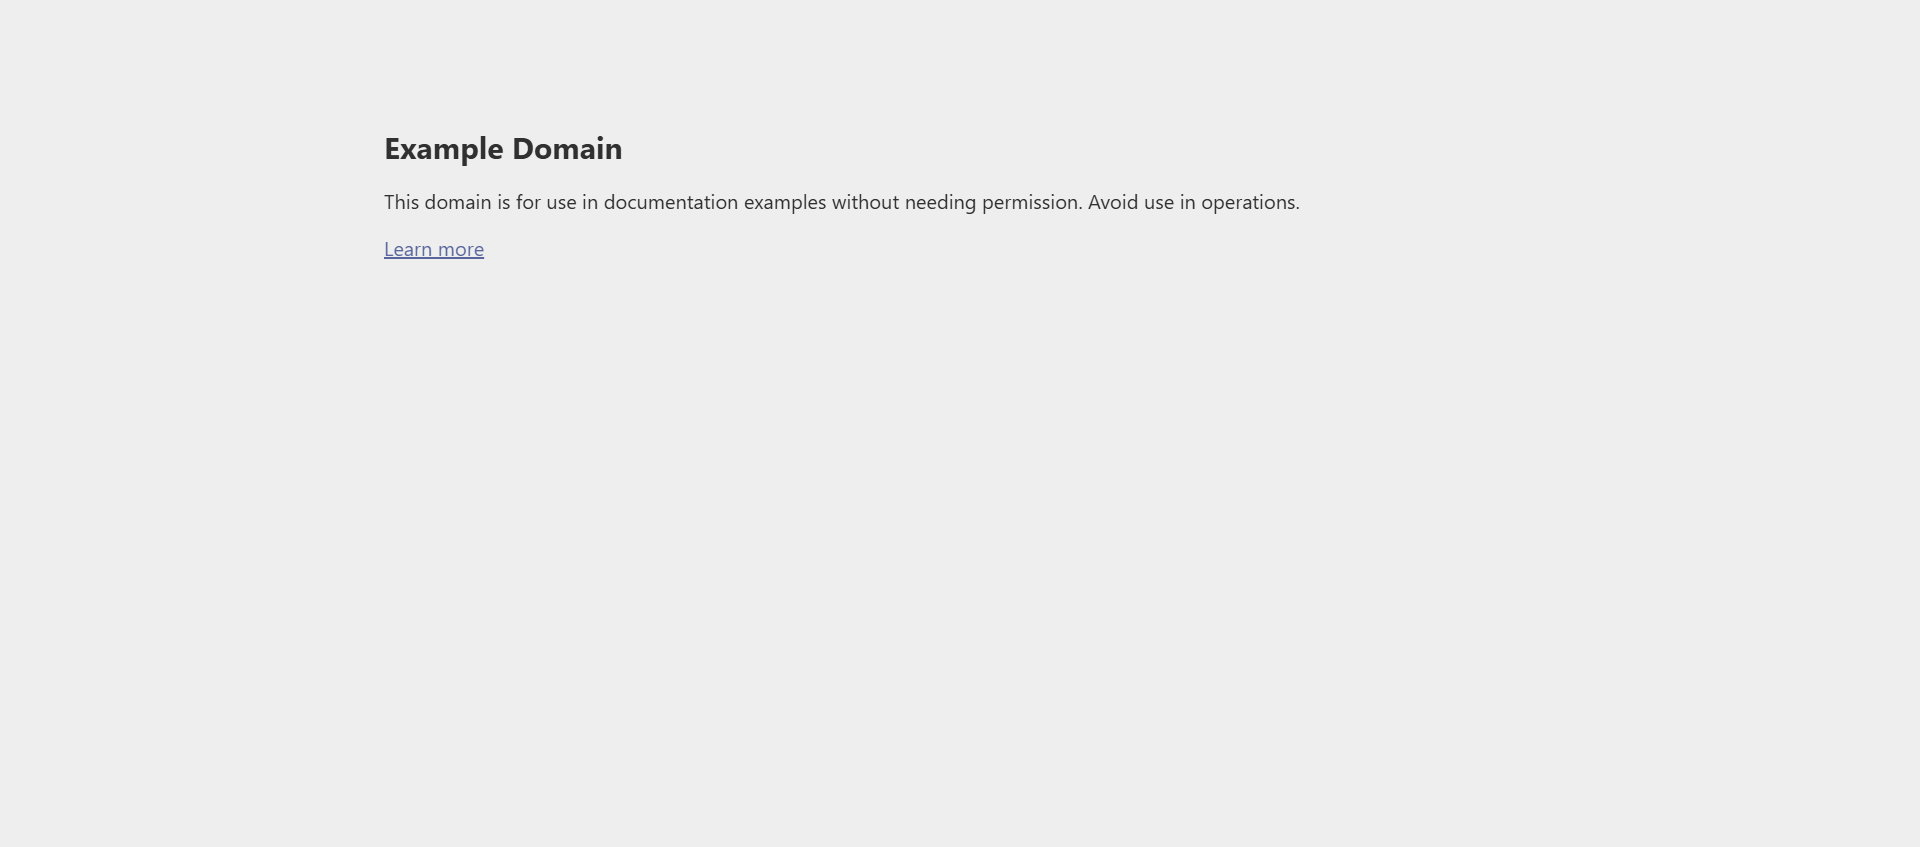
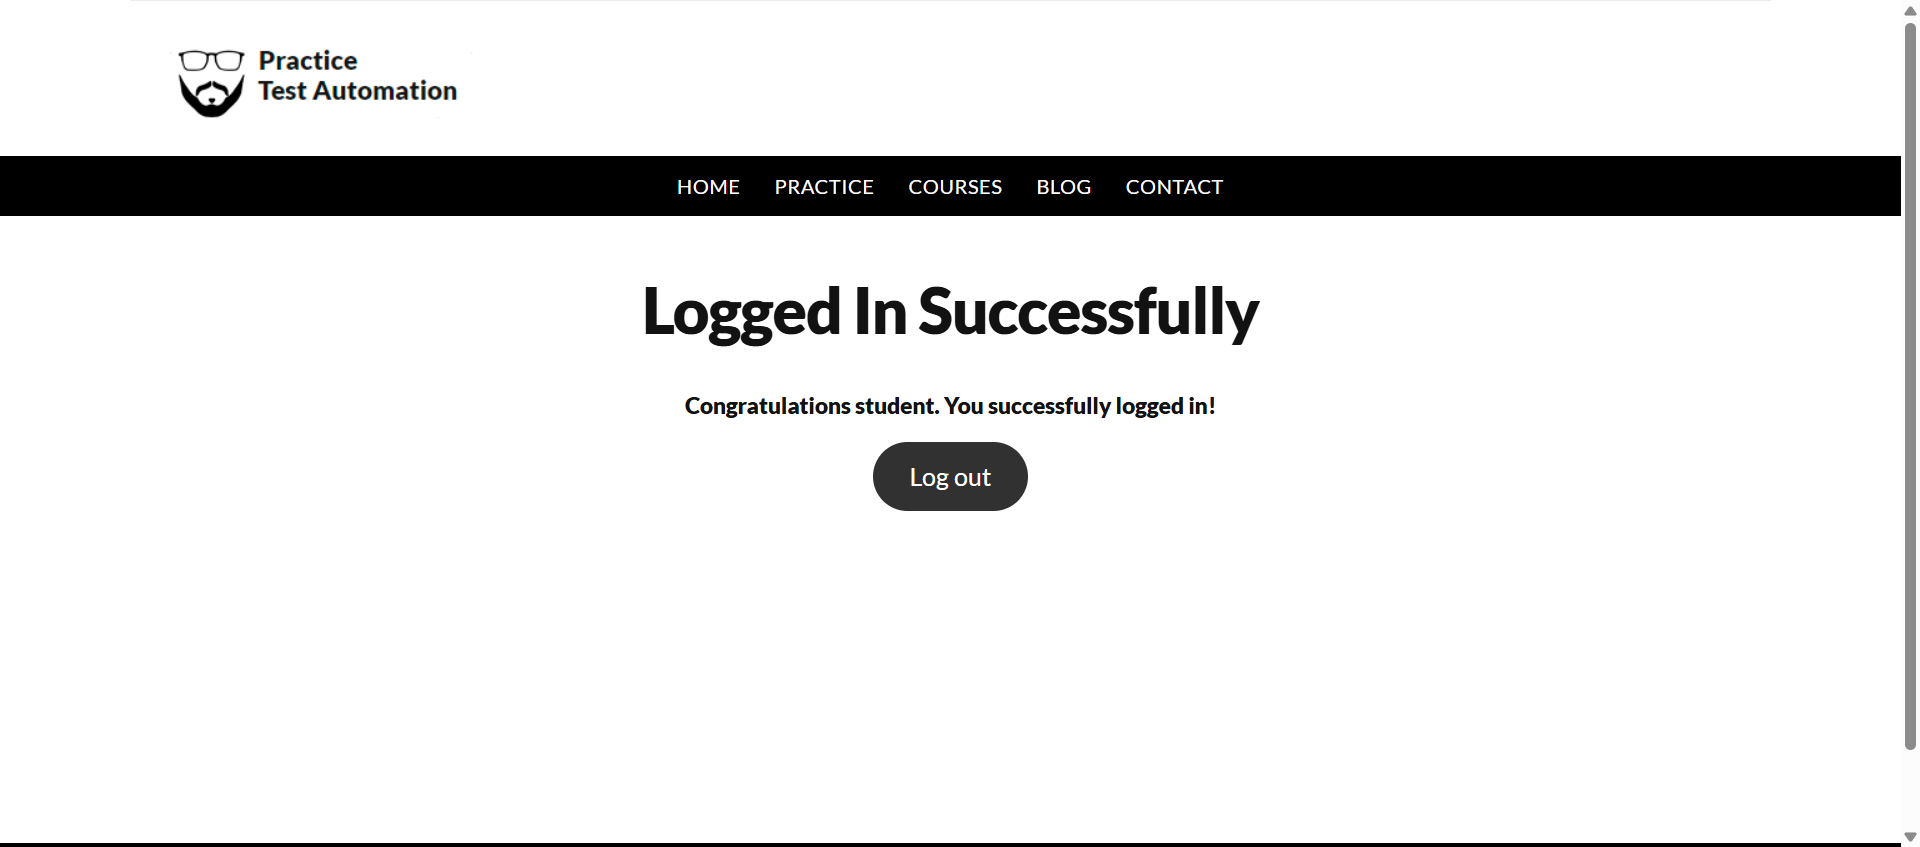
Subir reportes y capturas como evidencia

diff --git a/reports/report.html b/reports/report.html
@@ -328,7 +328,7 @@ div.media {
   </head>
   <body>
     <h1 id="title">report.html</h1>
-    <p>Report generated on 13-May-2026 at 17:10:40 by <a href="https://pypi.python.org/pypi/pytest-html">pytest-html</a>
+    <p>Report generated on 14-May-2026 at 18:33:56 by <a href="https://pypi.python.org/pypi/pytest-html">pytest-html</a>
         v4.2.0</p>
     <div id="environment-header">
       <h2>Environment</h2>
@@ -383,7 +383,7 @@ div.media {
         <h2>Summary</h2>
         <div class="additional-summary prefix">
         </div>
-        <p class="run-count">2 tests took 00:00:25.</p>
+        <p class="run-count">3 tests took 00:00:23.</p>
         <p class="filter">(Un)check the boxes to filter the results.</p>
         <div class="summary__reload">
           <div class="summary__reload__button hidden" onclick="location.reload()">
@@ -394,9 +394,9 @@ div.media {
         <div class="controls">
           <div class="filters">
             <input checked="true" class="filter" name="filter_checkbox" type="checkbox" data-test-result="failed" >
-            <span class="failed">2 Failed,</span>
-            <input checked="true" class="filter" name="filter_checkbox" type="checkbox" data-test-result="passed" disabled>
-            <span class="passed">0 Passed,</span>
+            <span class="failed">1 Failed,</span>
+            <input checked="true" class="filter" name="filter_checkbox" type="checkbox" data-test-result="passed" >
+            <span class="passed">2 Passed,</span>
             <input checked="true" class="filter" name="filter_checkbox" type="checkbox" data-test-result="skipped" disabled>
             <span class="skipped">0 Skipped,</span>
             <input checked="true" class="filter" name="filter_checkbox" type="checkbox" data-test-result="xfailed" disabled>
@@ -431,7 +431,7 @@ div.media {
       </thead>
     </table>
   <footer>
-    <div id="data-container" data-jsonblob="{&#34;environment&#34;: {&#34;Python&#34;: &#34;3.14.3&#34;, &#34;Platform&#34;: &#34;Windows-[phone redacted]-SP0&#34;, &#34;Packages&#34;: {&#34;pytest&#34;: &#34;9.0.3&#34;, &#34;pluggy&#34;: &#34;1.6.0&#34;}, &#34;Plugins&#34;: {&#34;html&#34;: &#34;4.2.0&#34;, &#34;metadata&#34;: &#34;3.1.1&#34;}}, &#34;tests&#34;: {&#34;tests_smoke/test_login_smoke.py::test_login_smoke&#34;: [{&#34;extras&#34;: [], &#34;result&#34;: &#34;Failed&#34;, &#34;testId&#34;: &#34;tests_smoke/test_login_smoke.py::test_login_smoke&#34;, &#34;duration&#34;: &#34;00:00:20&#34;, &#34;resultsTableRow&#34;: [&#34;&lt;td class=\&#34;col-result\&#34;&gt;Failed&lt;/td&gt;&#34;, &#34;&lt;td class=\&#34;col-testId\&#34;&gt;tests_smoke/test_login_smoke.py::test_login_smoke&lt;/td&gt;&#34;, &#34;&lt;td class=\&#34;col-duration\&#34;&gt;00:00:20&lt;/td&gt;&#34;, &#34;&lt;td class=\&#34;col-links\&#34;&gt;&lt;/td&gt;&#34;], &#34;log&#34;: &#34;driver = &amp;lt;selenium.webdriver.chrome.webdriver.WebDriver (session=&amp;quot;d0c20f8cf133d86b843c199480637ad5&amp;quot;)&amp;gt;\n\n    def test_login_smoke(driver):\n        from pages.login_page import LoginPage\n        login = LoginPage(driver)\n        driver.get(&amp;quot;http://automationpractice.pl/index.php?controller=authentication&amp;quot;)\n&amp;gt;       login.login(&amp;quot;usuario_test&amp;quot;, &amp;quot;pass123&amp;quot;)\n\ntests_smoke\\test_login_smoke.py:5: \n_ _ _ _ _ _ _ _ _ _ _ _ _ _ _ _ _ _ _ _ _ _ _ _ _ _ _ _ _ _ _ _ _ _ _ _ _ _ _ _ _ \npages\\login_page.py:10: in login\n    self.type(self.USER, user)\npages\\base_page.py:17: in type\n    el = self.find(locator)\n         ^^^^^^^^^^^^^^^^^^\npages\\base_page.py:10: in find\n    return self.wait.until(EC.visibility_of_element_located(locator))\n           ^^^^^^^^^^^^^^^^^^^^^^^^^^^^^^^^^^^^^^^^^^^^^^^^^^^^^^^^^^\n_ _ _ _ _ _ _ _ _ _ _ _ _ _ _ _ _ _ _ _ _ _ _ _ _ _ _ _ _ _ _ _ _ _ _ _ _ _ _ _ _ \n\nself = &amp;lt;selenium.webdriver.support.wait.WebDriverWait (session=&amp;quot;d0c20f8cf133d86b843c199480637ad5&amp;quot;)&amp;gt;\nmethod = &amp;lt;function visibility_of_element_located.&amp;lt;locals&amp;gt;._predicate at 0x000001A2079C0E00&amp;gt;\nmessage = &amp;#x27;&amp;#x27;\n\n    def until(self, method: Callable[[D], Literal[False] | T], message: str = &amp;quot;&amp;quot;) -&amp;gt; T:\n        &amp;quot;&amp;quot;&amp;quot;Wait until the method returns a value that is not False.\n    \n        Calls the method provided with the driver as an argument until the\n        return value does not evaluate to ``False``.\n    \n        Args:\n            method: A callable object that takes a WebDriver instance as an\n                argument.\n            message: Optional message for TimeoutException.\n    \n        Returns:\n            The result of the last call to `method`.\n    \n        Raises:\n            TimeoutException: If &amp;#x27;method&amp;#x27; does not return a truthy value within\n                the WebDriverWait object&amp;#x27;s timeout.\n    \n        Example:\n            &amp;gt;&amp;gt;&amp;gt; from selenium.webdriver.common.by import By\n            &amp;gt;&amp;gt;&amp;gt; from selenium.webdriver.support.ui import WebDriverWait\n            &amp;gt;&amp;gt;&amp;gt; from selenium.webdriver.support import expected_conditions as EC\n            &amp;gt;&amp;gt;&amp;gt;\n            &amp;gt;&amp;gt;&amp;gt; # Wait until an element is visible on the page\n            &amp;gt;&amp;gt;&amp;gt; wait = WebDriverWait(driver, 10)\n            &amp;gt;&amp;gt;&amp;gt; element = wait.until(EC.visibility_of_element_located((By.ID, &amp;quot;exampleId&amp;quot;)))\n            &amp;gt;&amp;gt;&amp;gt; print(element.text)\n        &amp;quot;&amp;quot;&amp;quot;\n        screen = None\n        stacktrace = None\n    \n        end_time = time.monotonic() + self._timeout\n        while True:\n            try:\n                value = method(self._driver)\n                if value:\n                    return value\n            except self._ignored_exceptions as exc:\n                screen = getattr(exc, &amp;quot;screen&amp;quot;, None)\n                stacktrace = getattr(exc, &amp;quot;stacktrace&amp;quot;, None)\n            if time.monotonic() &amp;gt; end_time:\n                break\n            time.sleep(self._poll)\n&amp;gt;       raise TimeoutException(message, screen, stacktrace)\nE       selenium.common.exceptions.TimeoutException: Message: \nE       Stacktrace:\nE       \tchromedriver!GetHandleVerifier [0xf67123+10a23]\nE       \tchromedriver!GetHandleVerifier [0xf67254+10b54]\nE       \tchromedriver!(No symbol) [0xd81e90]\nE       \tchromedriver!(No symbol) [0xdcb28a]\nE       \tchromedriver!(No symbol) [0xdcb52b]\nE       \tchromedriver!(No symbol) [0xe0d062]\nE       \tchromedriver!(No symbol) [0xded7d4]\nE       \tchromedriver!(No symbol) [0xe0a936]\nE       \tchromedriver!(No symbol) [0xded526]\nE       \tchromedriver!(No symbol) [0xdc08f9]\nE       \tchromedriver!(No symbol) [0xdc16b4]\nE       \tchromedriver!GetHandleVerifier [0x1201ac4+2ab3c4]\nE       \tchromedriver!GetHandleVerifier [0x11fd0ed+2a69ed]\nE       \tchromedriver!GetHandleVerifier [0x121e4f5+2c7df5]\nE       \tchromedriver!GetHandleVerifier [0xf81128+2aa28]\nE       \tchromedriver!GetHandleVerifier [0xf88bbd+324bd]\nE       \tchromedriver!GetHandleVerifier [0xf6fb28+19428]\nE       \tchromedriver!GetHandleVerifier [0xf6fcd5+195d5]\nE       \tchromedriver!GetHandleVerifier [0xf591cf+2acf]\nE       \tKERNEL32!BaseThreadInitThunk [0x769d5d49+19]\nE       \tntdll!RtlInitializeExceptionChain [0x77aed83b+6b]\nE       \tntdll!RtlGetAppContainerNamedObjectPath [0x77aed7c1+231]\n\n..\\AppData\\Local\\Python\\pythoncore-3.14-64\\Lib\\site-packages\\selenium\\webdriver\\support\\wait.py:121: TimeoutException\n&#34;}], &#34;tests_regression/test_checkout_regression.py::test_checkout_regression&#34;: [{&#34;extras&#34;: [], &#34;result&#34;: &#34;Failed&#34;, &#34;testId&#34;: &#34;tests_regression/test_checkout_regression.py::test_checkout_regression&#34;, &#34;duration&#34;: &#34;00:00:05&#34;, &#34;resultsTableRow&#34;: [&#34;&lt;td class=\&#34;col-result\&#34;&gt;Failed&lt;/td&gt;&#34;, &#34;&lt;td class=\&#34;col-testId\&#34;&gt;tests_regression/test_checkout_regression.py::test_checkout_regression&lt;/td&gt;&#34;, &#34;&lt;td class=\&#34;col-duration\&#34;&gt;00:00:05&lt;/td&gt;&#34;, &#34;&lt;td class=\&#34;col-links\&#34;&gt;&lt;/td&gt;&#34;], &#34;log&#34;: &#34;driver = &amp;lt;selenium.webdriver.chrome.webdriver.WebDriver (session=&amp;quot;3f1b6f2e07daa7d638a70ff6a5fcc1b0&amp;quot;)&amp;gt;\n\n    def test_checkout_regression(driver):\n&amp;gt;       from pages.home_page import HomePage\nE       ModuleNotFoundError: No module named &amp;#x27;pages.home_page&amp;#x27;\n\ntests_regression\\test_checkout_regression.py:2: ModuleNotFoundError\n&#34;}]}, &#34;renderCollapsed&#34;: [&#34;passed&#34;], &#34;initialSort&#34;: &#34;result&#34;, &#34;title&#34;: &#34;report.html&#34;}"></div>
+    <div id="data-container" data-jsonblob="{&#34;environment&#34;: {&#34;Python&#34;: &#34;3.14.3&#34;, &#34;Platform&#34;: &#34;Windows-11-10.0.26200-SP0&#34;, &#34;Packages&#34;: {&#34;pytest&#34;: &#34;9.0.3&#34;, &#34;pluggy&#34;: &#34;1.6.0&#34;}, &#34;Plugins&#34;: {&#34;html&#34;: &#34;4.2.0&#34;, &#34;metadata&#34;: &#34;3.1.1&#34;}}, &#34;tests&#34;: {&#34;tests/test_dummy.py::test_dummy_pass&#34;: [{&#34;extras&#34;: [], &#34;result&#34;: &#34;Passed&#34;, &#34;testId&#34;: &#34;tests/test_dummy.py::test_dummy_pass&#34;, &#34;duration&#34;: &#34;1 ms&#34;, &#34;resultsTableRow&#34;: [&#34;&lt;td class=\&#34;col-result\&#34;&gt;Passed&lt;/td&gt;&#34;, &#34;&lt;td class=\&#34;col-testId\&#34;&gt;tests/test_dummy.py::test_dummy_pass&lt;/td&gt;&#34;, &#34;&lt;td class=\&#34;col-duration\&#34;&gt;1 ms&lt;/td&gt;&#34;, &#34;&lt;td class=\&#34;col-links\&#34;&gt;&lt;/td&gt;&#34;], &#34;log&#34;: &#34;No log output captured.&#34;}], &#34;tests_smoke/test_login_smoke.py::test_login_smoke&#34;: [{&#34;extras&#34;: [], &#34;result&#34;: &#34;Passed&#34;, &#34;testId&#34;: &#34;tests_smoke/test_login_smoke.py::test_login_smoke&#34;, &#34;duration&#34;: &#34;00:00:15&#34;, &#34;resultsTableRow&#34;: [&#34;&lt;td class=\&#34;col-result\&#34;&gt;Passed&lt;/td&gt;&#34;, &#34;&lt;td class=\&#34;col-testId\&#34;&gt;tests_smoke/test_login_smoke.py::test_login_smoke&lt;/td&gt;&#34;, &#34;&lt;td class=\&#34;col-duration\&#34;&gt;00:00:15&lt;/td&gt;&#34;, &#34;&lt;td class=\&#34;col-links\&#34;&gt;&lt;/td&gt;&#34;], &#34;log&#34;: &#34;No log output captured.&#34;}], &#34;tests_regression/test_checkout_regression.py::test_checkout_regression&#34;: [{&#34;extras&#34;: [], &#34;result&#34;: &#34;Failed&#34;, &#34;testId&#34;: &#34;tests_regression/test_checkout_regression.py::test_checkout_regression&#34;, &#34;duration&#34;: &#34;00:00:07&#34;, &#34;resultsTableRow&#34;: [&#34;&lt;td class=\&#34;col-result\&#34;&gt;Failed&lt;/td&gt;&#34;, &#34;&lt;td class=\&#34;col-testId\&#34;&gt;tests_regression/test_checkout_regression.py::test_checkout_regression&lt;/td&gt;&#34;, &#34;&lt;td class=\&#34;col-duration\&#34;&gt;00:00:07&lt;/td&gt;&#34;, &#34;&lt;td class=\&#34;col-links\&#34;&gt;&lt;/td&gt;&#34;], &#34;log&#34;: &#34;driver = &amp;lt;selenium.webdriver.chrome.webdriver.WebDriver (session=&amp;quot;40d712c137bd9e585960008fcca09f5e&amp;quot;)&amp;gt;\n\n    def test_checkout_regression(driver):\n        from pages.home_page import HomePage\n        from pages.search_results_page import SearchResultsPage\n&amp;gt;       from pages.product_page import ProductPage\nE       ModuleNotFoundError: No module named &amp;#x27;pages.product_page&amp;#x27;\n\ntests_regression\\test_checkout_regression.py:4: ModuleNotFoundError\n&#34;}]}, &#34;renderCollapsed&#34;: [&#34;passed&#34;], &#34;initialSort&#34;: &#34;result&#34;, &#34;title&#34;: &#34;report.html&#34;}"></div>
     <script>
       (function(){function r(e,n,t){function o(i,f){if(!n[i]){if(!e[i]){var c="function"==typeof require&&require;if(!f&&c)return c(i,!0);if(u)return u(i,!0);var a=new Error("Cannot find module '"+i+"'");throw a.code="MODULE_NOT_FOUND",a}var p=n[i]={exports:{}};e[i][0].call(p.exports,function(r){var n=e[i][1][r];return o(n||r)},p,p.exports,r,e,n,t)}return n[i].exports}for(var u="function"==typeof require&&require,i=0;i<t.length;i++)o(t[i]);return o}return r})()({1:[function(require,module,exports){
 const { getCollapsedCategory, setCollapsedIds } = require('./storage.js')